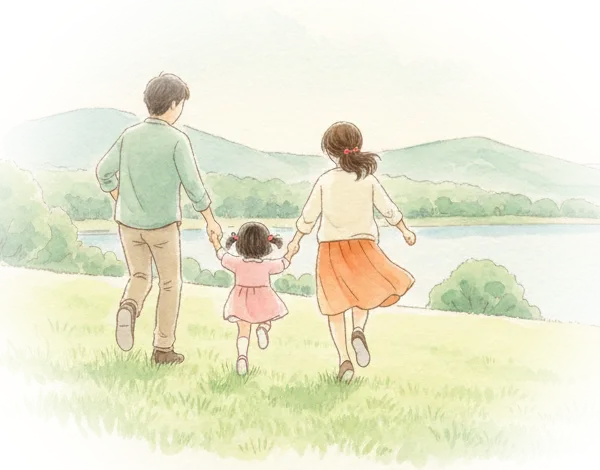
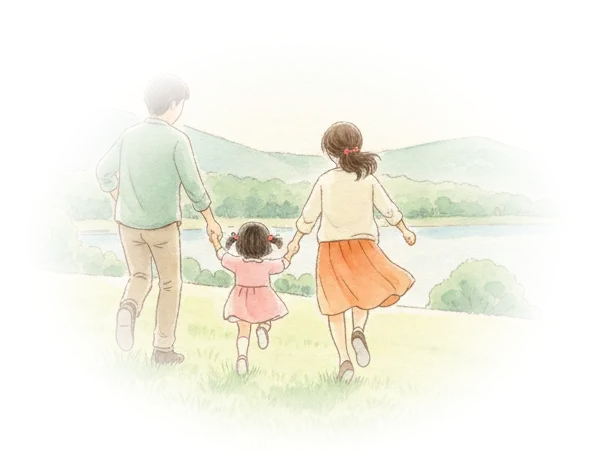
publish: 冒頭の静止画を20秒ごとにゆっくり出したり消したりし、縁をぼかして薄く。スマホは横幅いっぱいでボタンの上に

diff --git a/assets/hero-family.js b/assets/hero-family.js
@@ -1,5 +1,5 @@
 // 冒頭の背景：パパ・ママ・3〜4歳の娘が湖のある丘を手をつないで駆け、3人で輪になって宙に浮かんで回る水彩の動画（約10秒・1回だけ）。
-// 動画は最後に薄く消え、そのあとダウンロードのボタンの右に、3人が湖を眺める静かな絵を薄く残す。
+// 動画は最後に薄く消え、そのあと3人の静かな絵を薄く出す。静かな絵は約20秒ごとに、ゆっくり現れては消える。
 // 動きを減らす設定の人には動画を流さず、静かな絵だけを出す。動画はボタンのあたりが画面に入ってから読み込む。
 (function () {
   var hero = document.querySelector('.hero');
@@ -20,7 +20,7 @@
     video.style.height = Math.max(160, b.t - p.b) + 'px';
   }
   // 静止画：パソコンはデモのスマホの左の縁を中心に、ママの頭がスマホに隠れない高さで置く（文字の後ろに隠れてもよい）
-  //         スマホはデモのスマホの真下、右の端に小さく置く
+  //         スマホは画面の横幅いっぱいに、下の辺を無料ダウンロードのボタンのすぐ上にそろえて置く
   function placeStill() {
     if (!still) return;
     var phone = hero.querySelector('.hero-demo .phone') || hero.querySelector('.hero-demo');
@@ -31,9 +31,10 @@
       still.style.left = (p.l - w / 2) + 'px';
       still.style.top = (p.b + 10 - h * 0.27) + 'px'; // 絵の上から27%がママの頭の上端
     } else {
-      w = Math.min(240, p.w * 0.6); h = w * 470 / 600;
-      still.style.left = (p.w - w) + 'px';
-      still.style.top = (p.b - h * 0.2) + 'px';
+      var btn = hero.querySelector('.hero-cta .btn-store');
+      w = p.w; h = w * 470 / 600;
+      still.style.left = '0px';
+      still.style.top = ((btn ? rel(btn).t : p.b + h) - h) + 'px'; // 下の辺を無料ダウンロードのボタンのすぐ上に
     }
     still.style.width = w + 'px';
   }

diff --git a/index.html b/index.html
@@ -278,7 +278,9 @@
   .hero-video { position:absolute; left:0; width:100%; object-fit:cover; object-position:center 60%; opacity:0; transition:opacity 1s ease; }
   .hero-video.on { opacity:.5; }
   .hero-still { position:absolute; width:220px; height:auto; opacity:0; transition:opacity 1.6s ease; }
-  .hero-still.on { opacity:.3; }
+  .hero-still.on { animation:heroStill 20s ease-in-out infinite; }
+  @keyframes heroStill { 0% { opacity:0; } 15% { opacity:.2; } 50% { opacity:.2; } 65% { opacity:0; } 100% { opacity:0; } }
+  @media (prefers-reduced-motion: reduce) { .hero-still.on { animation:none; opacity:.2; } }
   @media (min-width: 900px) {
     .hero-video { top:0; height:100%; }
   }
